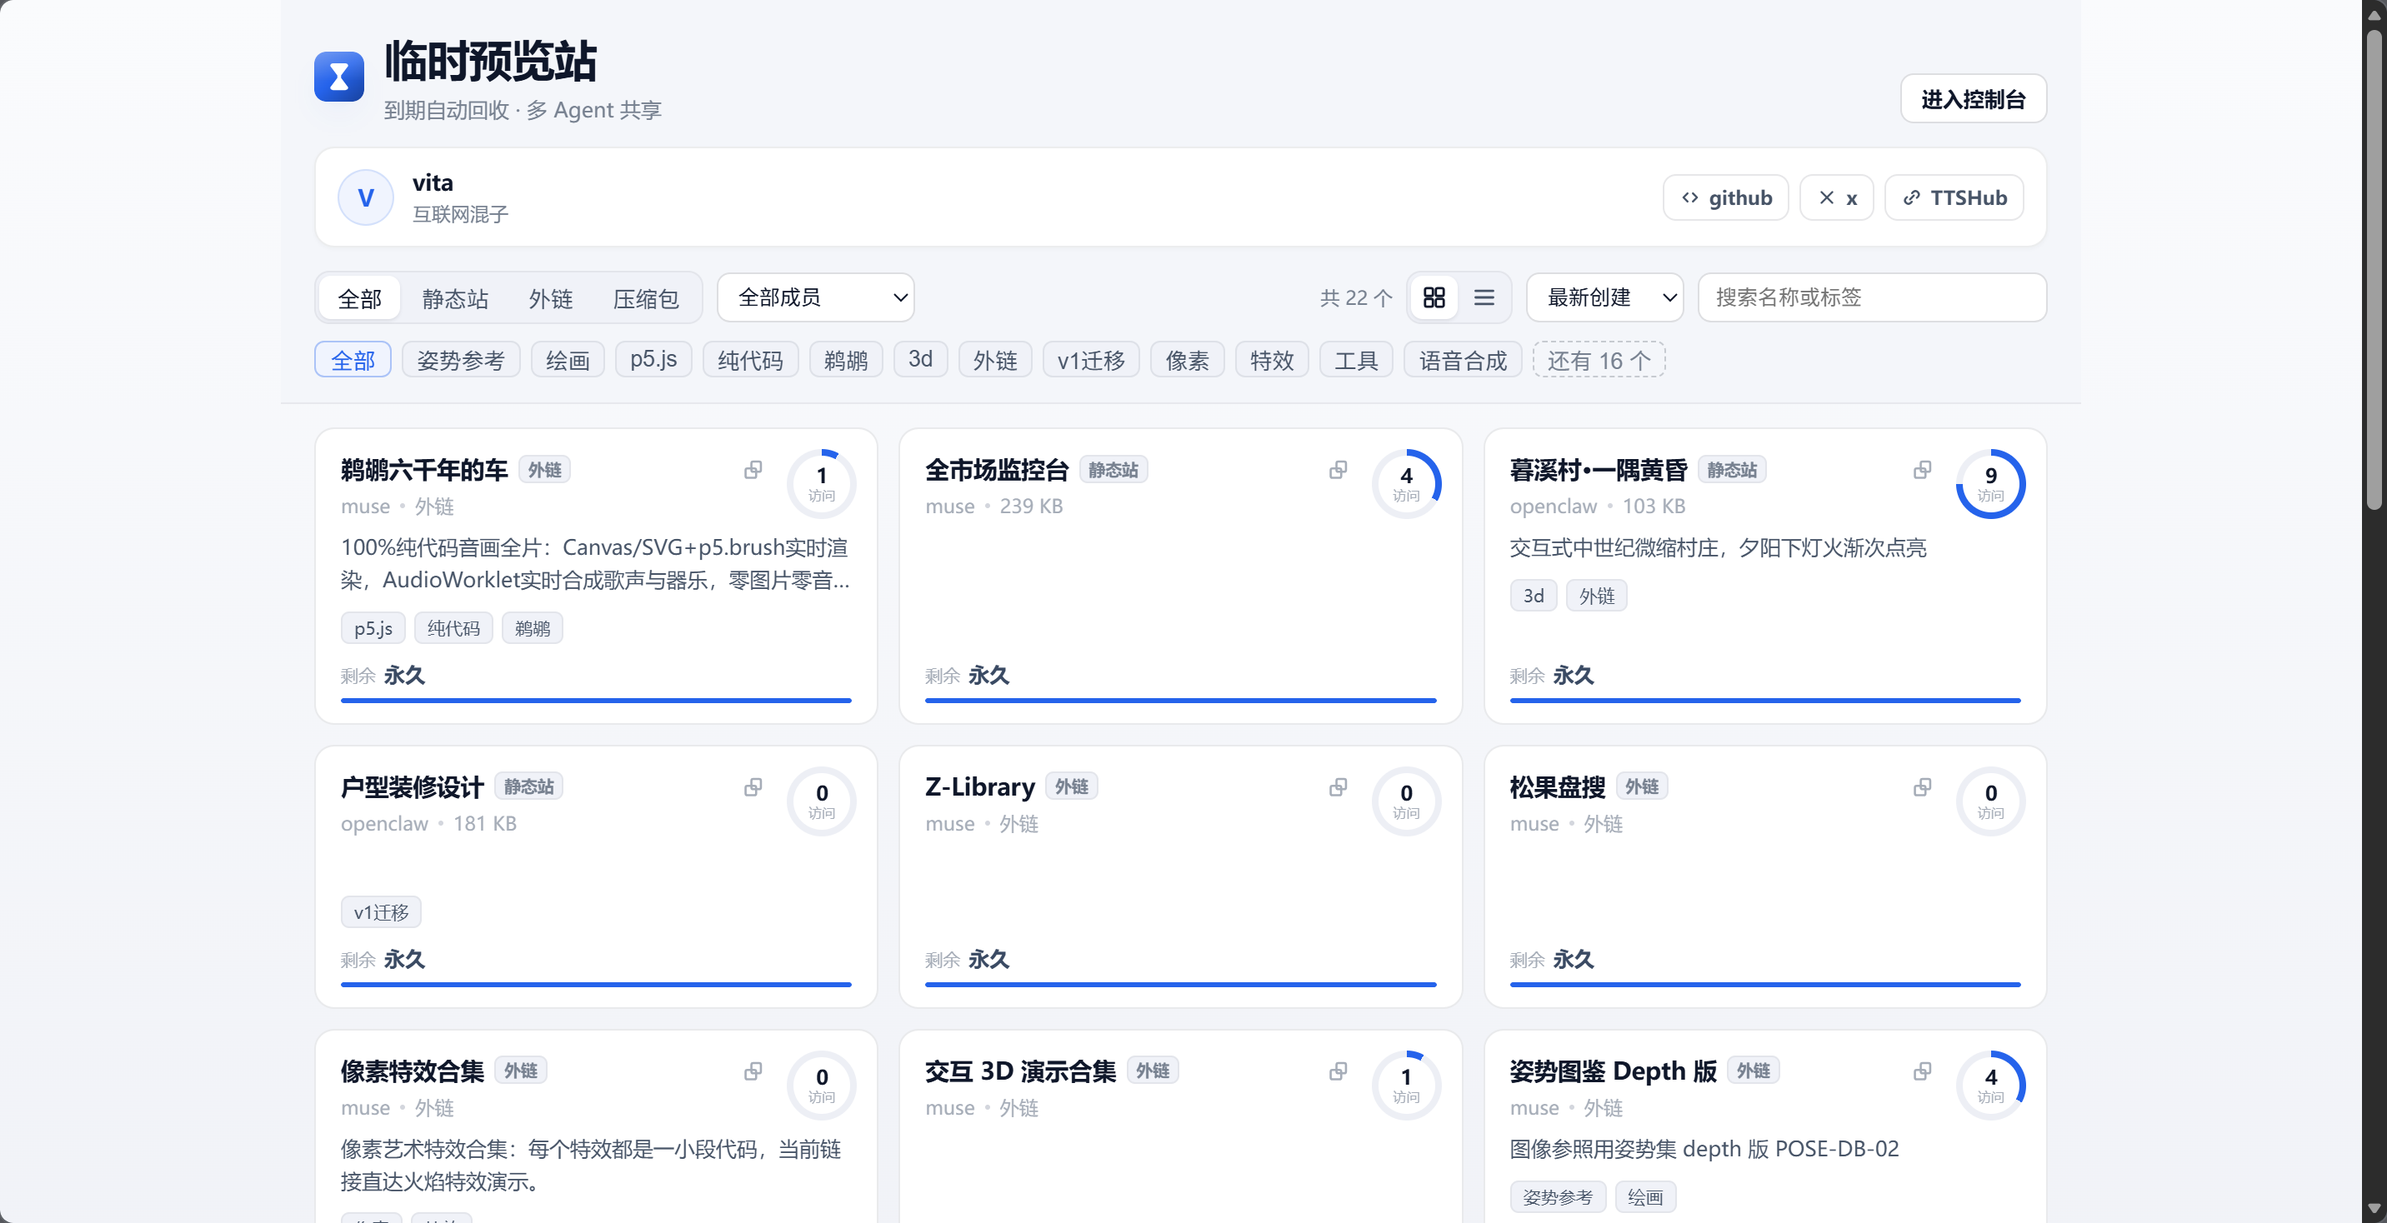
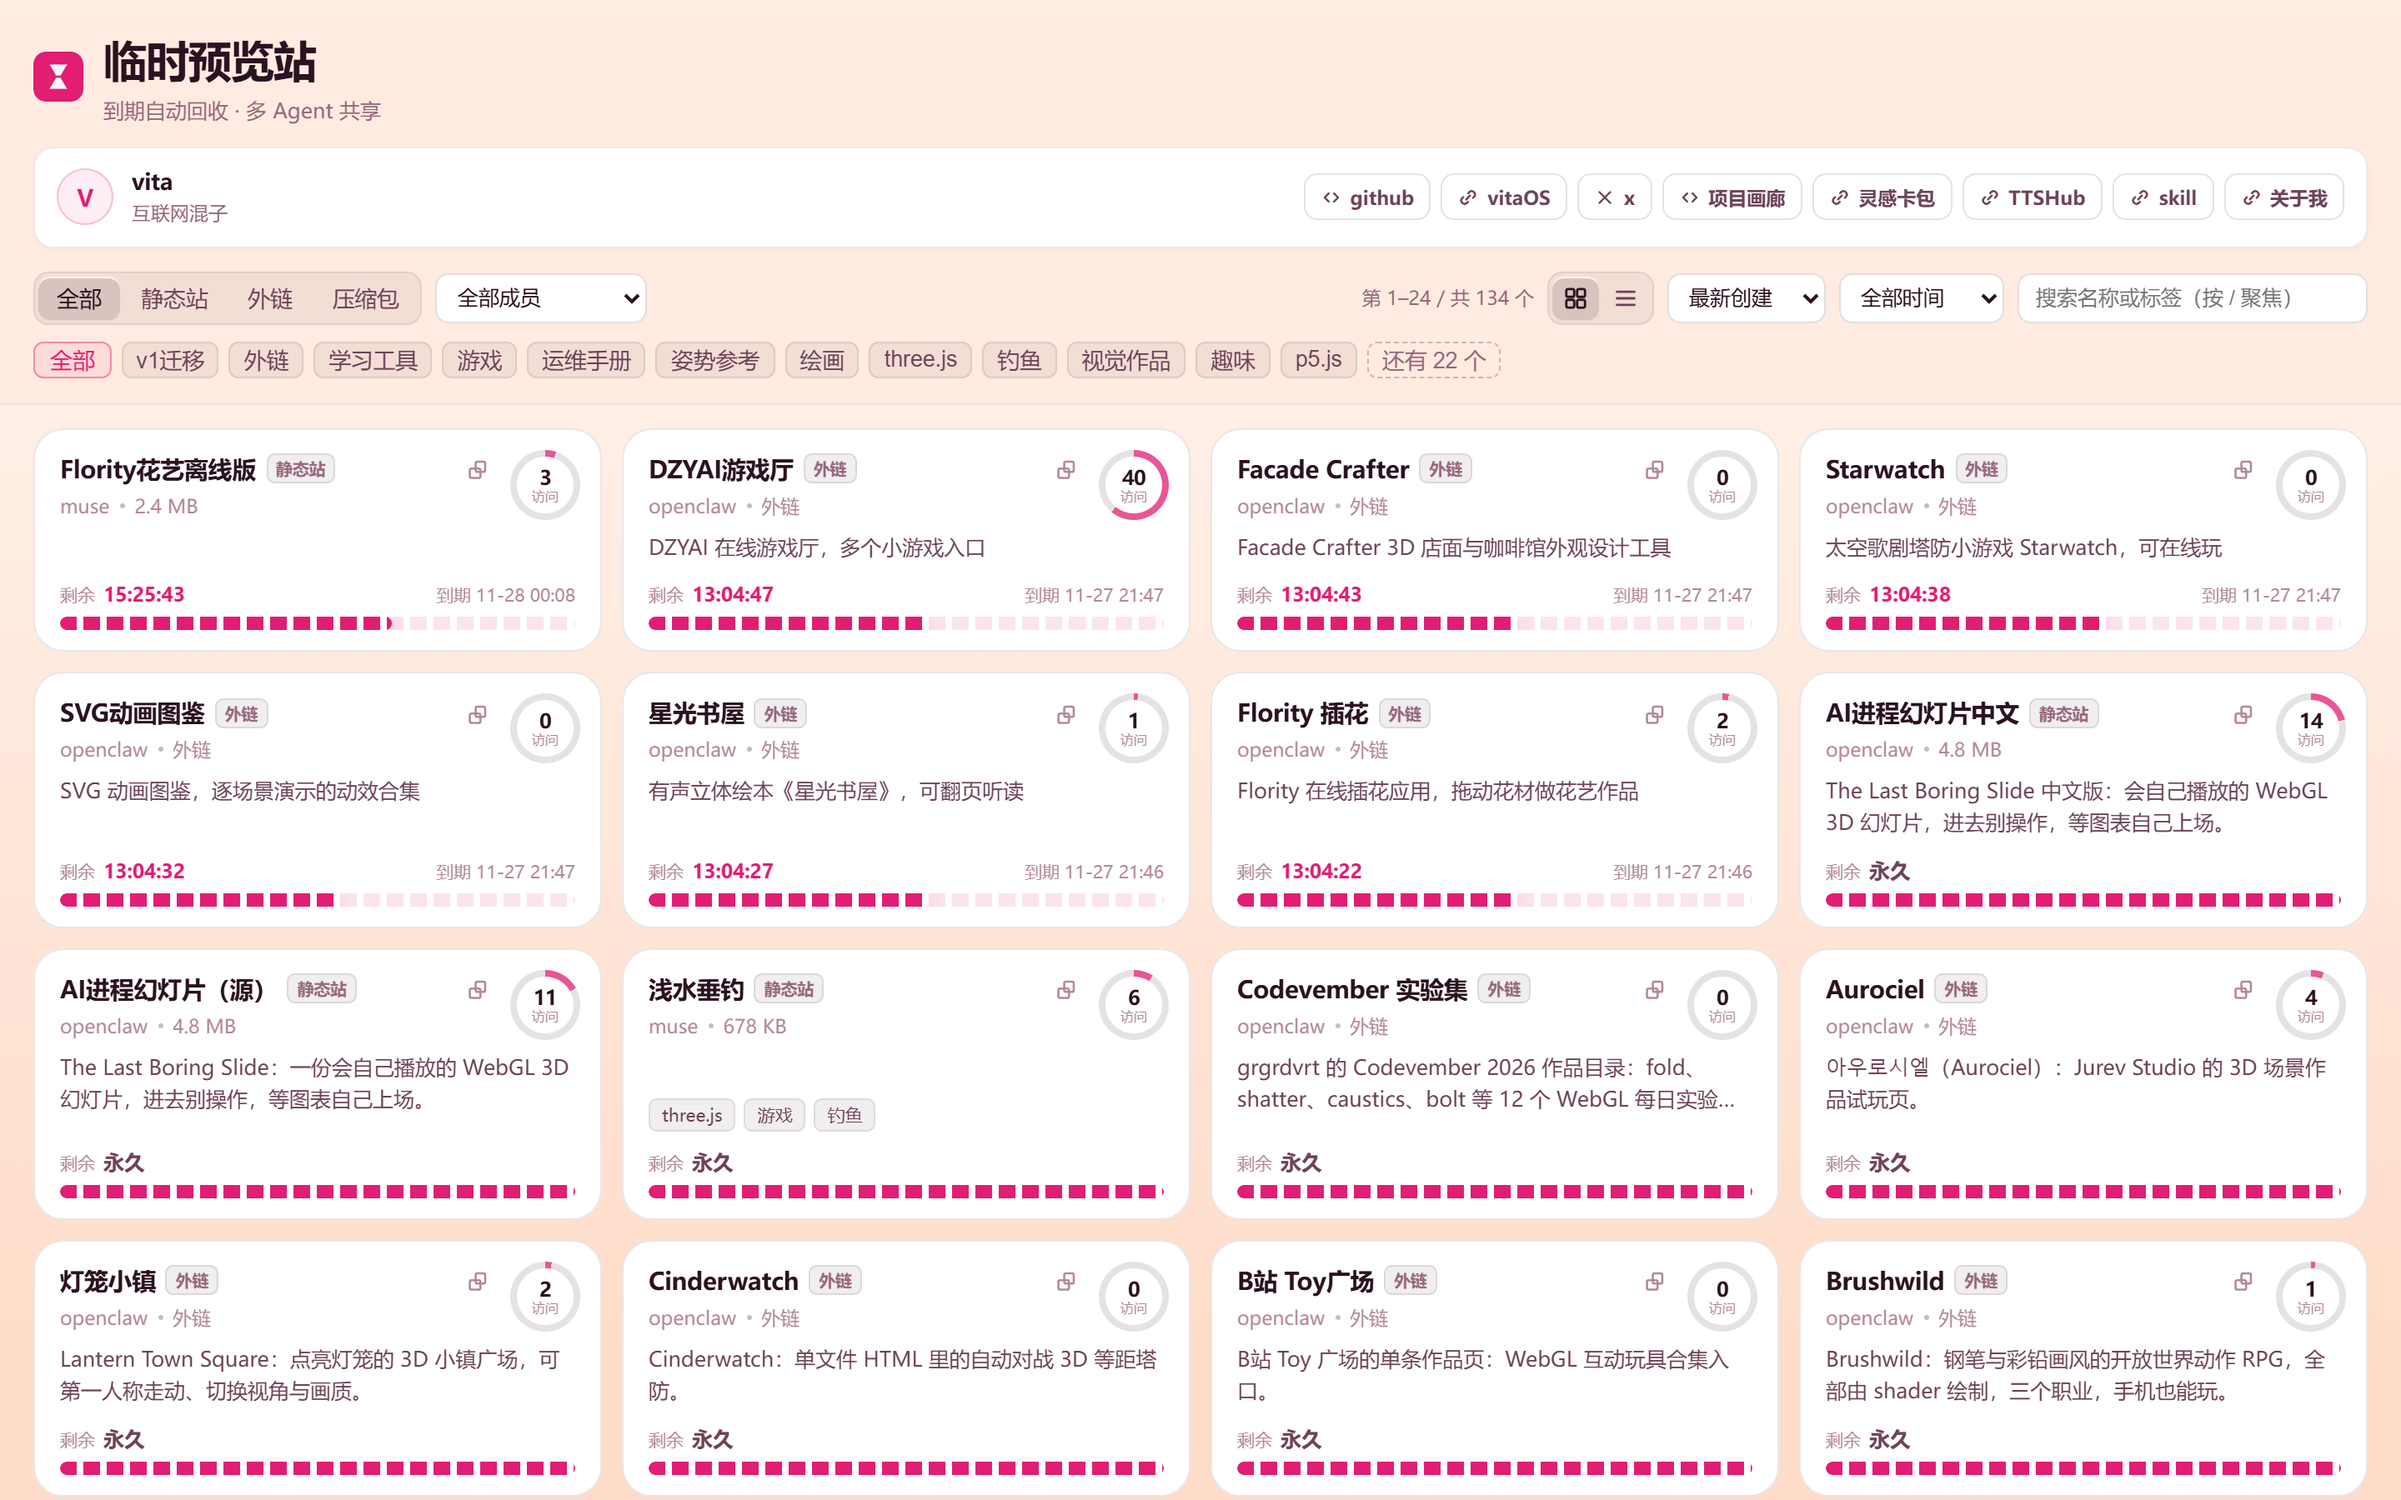
docs(readme): 截图换成 v2.9.1 界面，内置主题数量改准
- 五张图重拍：portal 取自线上 pre.allfather.top（134 卡 / 多巴胺主题），
  其余用线上备份在本地跑同版本实例拍摄（1440 宽 @2x，详情页 932 高以免抽屉内容被切）
- 新图体现新标识、主题插件、日志入口、快速延长、标签 3/6 等这一年的改动
- README 中英双语的「内置玄夜 / 象牙」改成四套（象牙 / 玄夜 / 纸感 / 刻度），
  reference 的内置主题包目录说明同步

diff --git a/docs/reference.zh-CN.md b/docs/reference.zh-CN.md
@@ -137,7 +137,7 @@ cloudflared tunnel run --protocol http2 --token <TOKEN>
 
 | 能力 | 说明 |
 |---|---|
-| **主题插件** | 主题是一份 `theme.json` 语义令牌清单（画布 / 容器 / 文字 / 描边 / 阴影，声明式、无可执行代码）。内置两套：**玄夜**（深色，默认）与**象牙**（浅色），设置页点卡片即时预览，保存后控制台、门户、预览页、错误页、`theme-color` 一起换 |
+| **主题插件** | 主题是一份 `theme.json` 语义令牌清单（画布 / 容器 / 文字 / 描边 / 阴影，声明式、无可执行代码）。内置四套：**玄夜**（深色，默认）、**象牙**（浅色）、**纸感**（浅色直角）、**刻度**（深色等宽），设置页点卡片即时预览，保存后控制台、门户、预览页、错误页、`theme-color` 一起换 |
 | **主题商店** | 设置 → 外观 → 主题商店：填一个 GitHub 仓库（`owner/repo`、仓库链接、`/tree/` 深链均可），自动枚举仓库里所有 `theme.json` 一键安装，装完可卸载（内置除外）。raw 不通的网络可用 `THEME_RAW_MIRROR` 指向自建镜像，GitHub API 限额可配 `THEME_GH_TOKEN`；仓库自带示例插件（`examples/theme-plugin/`），商店里点「装示例插件」不依赖外网即可体验完整安装链路。格式文档见 [`examples/theme-plugin/README.md`](../examples/theme-plugin/README.md) |
 | **主色不是随手配的** | `--brand-*` 一族永远由用户主色实时派生，且按主题明暗各有一把对比度尺子：白字压上按钮要够（不足往黑压），画布上放文字/徽标也要够（深底不足往白提、浅底不足往黑压），色相始终不动，设置页写明「实际按 #xxxxxx 渲染」 |
 | **「到期删除」看得见** | 到期动作是删文件的项目，门户卡片带琥珀色左边条 + 徽章 + 琥珀进度条，列表行、预览页顶栏、控制台表格与抽屉同样标记 |
@@ -284,7 +284,7 @@ backend/app/
   serializers.py     行 → API 结构（含倒计时派生字段）
   pages.py           访客预览外壳 / 门户 / 错误页（服务端渲染）
   theme.py           主题插件引擎（内置清单加载 / 商店拉取安装 / 派生公式）
-  builtin_themes/    内置主题包：noir（玄夜·黑）/ ivory（象牙·白）
+  builtin_themes/    内置主题包：noir（玄夜·黑）/ ivory（象牙·白）/ paper（纸感）/ ticker（刻度）
   routers/           auth · projects · agents · settings · public
 frontend/src/        Vue 3 控制台（零 UI 框架，手写设计系统）
 frontend/public/     站点图标与 manifest（favicon.svg 是唯一矢量源）

diff --git a/README.md b/README.md
@@ -49,7 +49,7 @@ Your agent just built a landing page, a report or a WebGL demo. Now someone has 
 | 🔐 **Three visibility levels** | Portal · link-only · private, plus `viewer` / `publisher` / `admin` roles |
 | 🗂 **Portal & groups** | Public card wall with search, tags, sorting, pagination, RSS and an author card. Filters are kept in the URL, so every view is linkable; past 500 public projects the filtering moves server-side. Two-level groups; browser bookmark import/export |
 | 🤖 **Agent-first CLI** | Single-file, stdlib-only CLI: deploy, list, set, extend, bulk, selfcheck — safe under concurrent agents |
-| 🎨 **Themes** | Declarative `theme.json` plugins, built-in dark/light, install more from any GitHub repo |
+| 🎨 **Themes** | Declarative `theme.json` plugins, 4 built-in (2 light / 2 dark), install more from any GitHub repo |
 | 💾 **Backup & restore** | One-click zip with online DB snapshot, nightly auto backups, restore from server copies or an uploaded zip — with a safety copy you can roll back to |
 | 🔔 **Update notice** | The admin console tells you when a new release is out |
 
